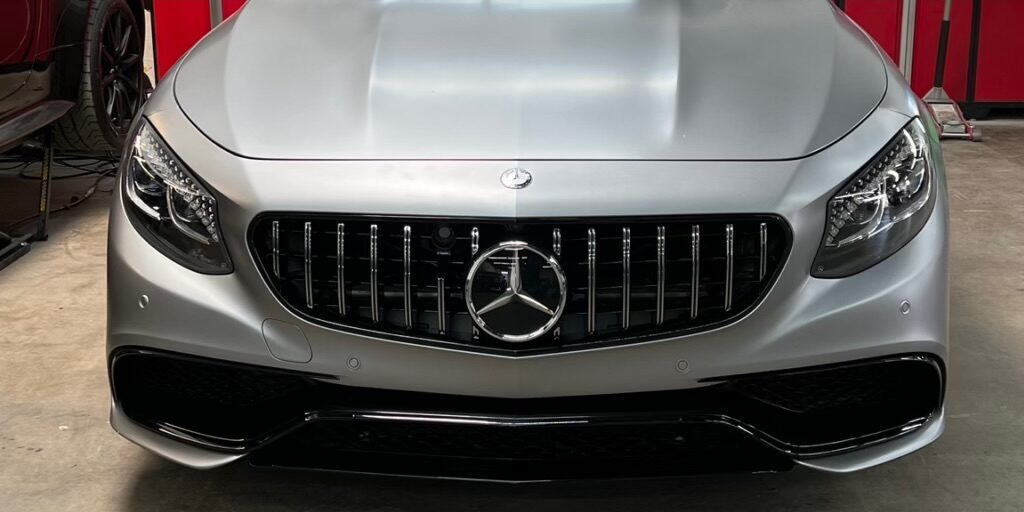
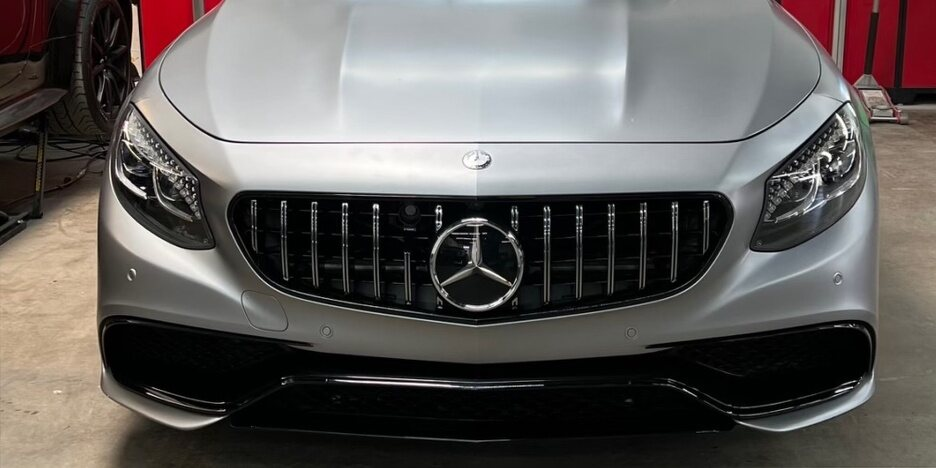
Before/after: keep only pairs shot from the same angle
The slider only works when both photos share the frame, so drop the pairs
that were taken from different angles or places (blue 488 GTB, Cullinan,
black S63). The two that remain are aligned to each other and cropped to one
2:1 frame: white Ferrari 488 Spider and silver S63 Coupe.

- Home and /accident-repair sliders use the 488 Spider
- /customization back to its previous layout (no single-case gallery)
- cases.ts: no per-case shapes, every pair is 2:1

Claude-Session: https://claude.ai/code/session_01B7mzVEnxXic1PwiWCEe5cd

diff --git a/src/data/cases.ts b/src/data/cases.ts
@@ -1,6 +1,8 @@
-// Before/after cases from the shop's photo folder (Google Drive). Images live in
-// public/media/cases/<slug>-before.jpg / -after.jpg, cropped to the same frame
-// so the slider lines up. CONFIRM the write-ups with the owner before launch.
+// Before/after cases from the shop's photo folder (Google Drive). Only pairs shot
+// from the same spot and angle belong here, so the slider reveals the work and
+// nothing else. Images live in public/media/cases/<slug>-before.jpg / -after.jpg,
+// aligned to each other and cropped to the same 2:1 frame.
+// CONFIRM the write-ups with the owner before launch.
 
 export type Case = {
   slug: string;
@@ -10,7 +12,6 @@ export type Case = {
   work: string[];
   before: string; // alt text for the before shot
   after: string;
-  shape: 'wide' | 'tall' | 'banner'; // 3:2, 4:5, 2:1 — matches the image files
   build?: string; // slug in builds.ts this case illustrates
 };
 
@@ -23,27 +24,6 @@ export const cases: Case[] = [
     work: ['Front structure & bumper', 'Hood, headlights, airbags', 'Factory-match white refinish'],
     before: 'White Ferrari 488 Spider with a crushed front end and deployed airbags',
     after: 'The same 488 Spider fully repaired, same angle outside LNC',
-    shape: 'wide',
-  },
-  {
-    slug: 'ferrari-488-gtb',
-    car: 'Ferrari 488 GTB',
-    division: 'Accident Repair',
-    title: 'Stripped to the crash structure. Rebuilt from there.',
-    work: ['Front crash structure', 'Bumper, hood & lighting', 'Refinish in factory blue'],
-    before: 'Blue Ferrari 488 with the front end removed down to the crash structure',
-    after: 'The same blue 488 rebuilt and finished outside LNC',
-    shape: 'wide',
-  },
-  {
-    slug: 'rolls-royce-cullinan',
-    car: 'Rolls-Royce Cullinan',
-    division: 'Customization',
-    title: 'Wide-body kit, test-fitted, painted, delivered.',
-    work: ['Wide-body kit fit', 'Color-matched paint', 'Custom wheels'],
-    before: 'Rolls-Royce Cullinan in the LNC shop with the body kit taped for test fit',
-    after: 'The finished Cullinan with the painted body kit outside LNC',
-    shape: 'tall',
   },
   {
     slug: 'mercedes-s63-silver',
@@ -53,18 +33,7 @@ export const cases: Case[] = [
     work: ['GT-style grille supplied', 'Fit & finish'],
     before: 'Silver Mercedes-AMG S63 Coupe with the factory grille',
     after: 'The same S63 Coupe with a GT-style vertical-slat grille',
-    shape: 'banner',
     build: 'mercedes-s63-coupe',
-  },
-  {
-    slug: 'mercedes-s63-black',
-    car: 'Mercedes-AMG S63 Coupe',
-    division: 'Customization',
-    title: 'Same upgrade, in black.',
-    work: ['GT-style grille supplied', 'Fit & finish'],
-    before: 'Black Mercedes-AMG S63 Coupe with the factory grille',
-    after: 'The same black S63 Coupe with a GT-style grille',
-    shape: 'banner',
   },
 ];
 
@@ -72,5 +41,3 @@ export const caseImages = (c: Case) => ({
   before: `/media/cases/${c.slug}-before.jpg`,
   after: `/media/cases/${c.slug}-after.jpg`,
 });
-
-export const caseAspect = { wide: 'aspect-[3/2]', tall: 'aspect-[4/5]', banner: 'aspect-[2/1]' } as const;

diff --git a/README.md b/README.md
@@ -32,7 +32,7 @@ Replace it with media of the same aspect ratio, e.g.
 <video src="/media/hero.mp4" autoplay muted loop playsinline class="size-full object-cover"></video>
 ```
 - Before/after: `<BeforeAfter before="/media/x-before.jpg" after="/media/x-after.jpg" />`
-- Before/after cases ("What we did" on /builds, plus /accident-repair, /customization and the home slider): add an entry to `src/data/cases.ts` and drop `public/media/cases/<slug>-before.jpg` + `-after.jpg`, cropped to the same frame (3:2, 4:5 or 2:1 — set `shape` to match). Strip EXIF/GPS before committing phone photos.
+- Before/after cases ("What we did" on /builds, plus the home and /accident-repair sliders): add an entry to `src/data/cases.ts` and drop `public/media/cases/<slug>-before.jpg` + `-after.jpg`, shot from the same spot and angle, aligned and cropped to the same 2:1 frame. Strip EXIF/GPS before committing phone photos.
 - Scroll-scrubbed footage (Forge-style): `<video data-scrub src="…" muted playsinline preload="auto">` — scrubs with scroll automatically.
 - Put files in `public/media/`. Export video H.264 MP4, ≤ 8 MB for the hero.
 
